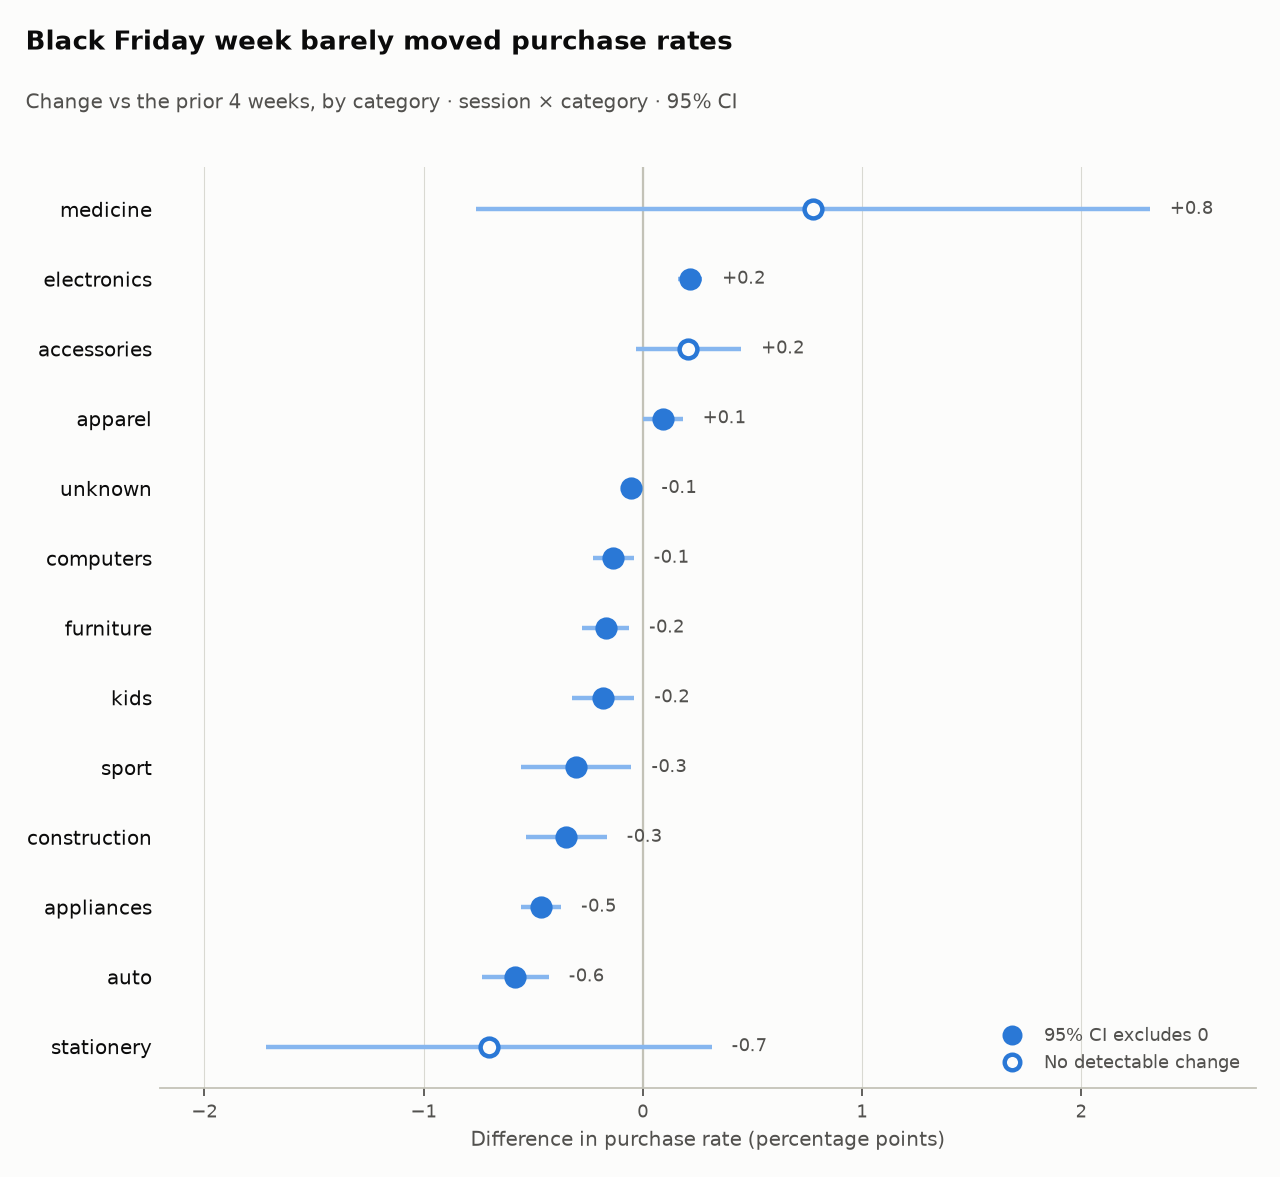
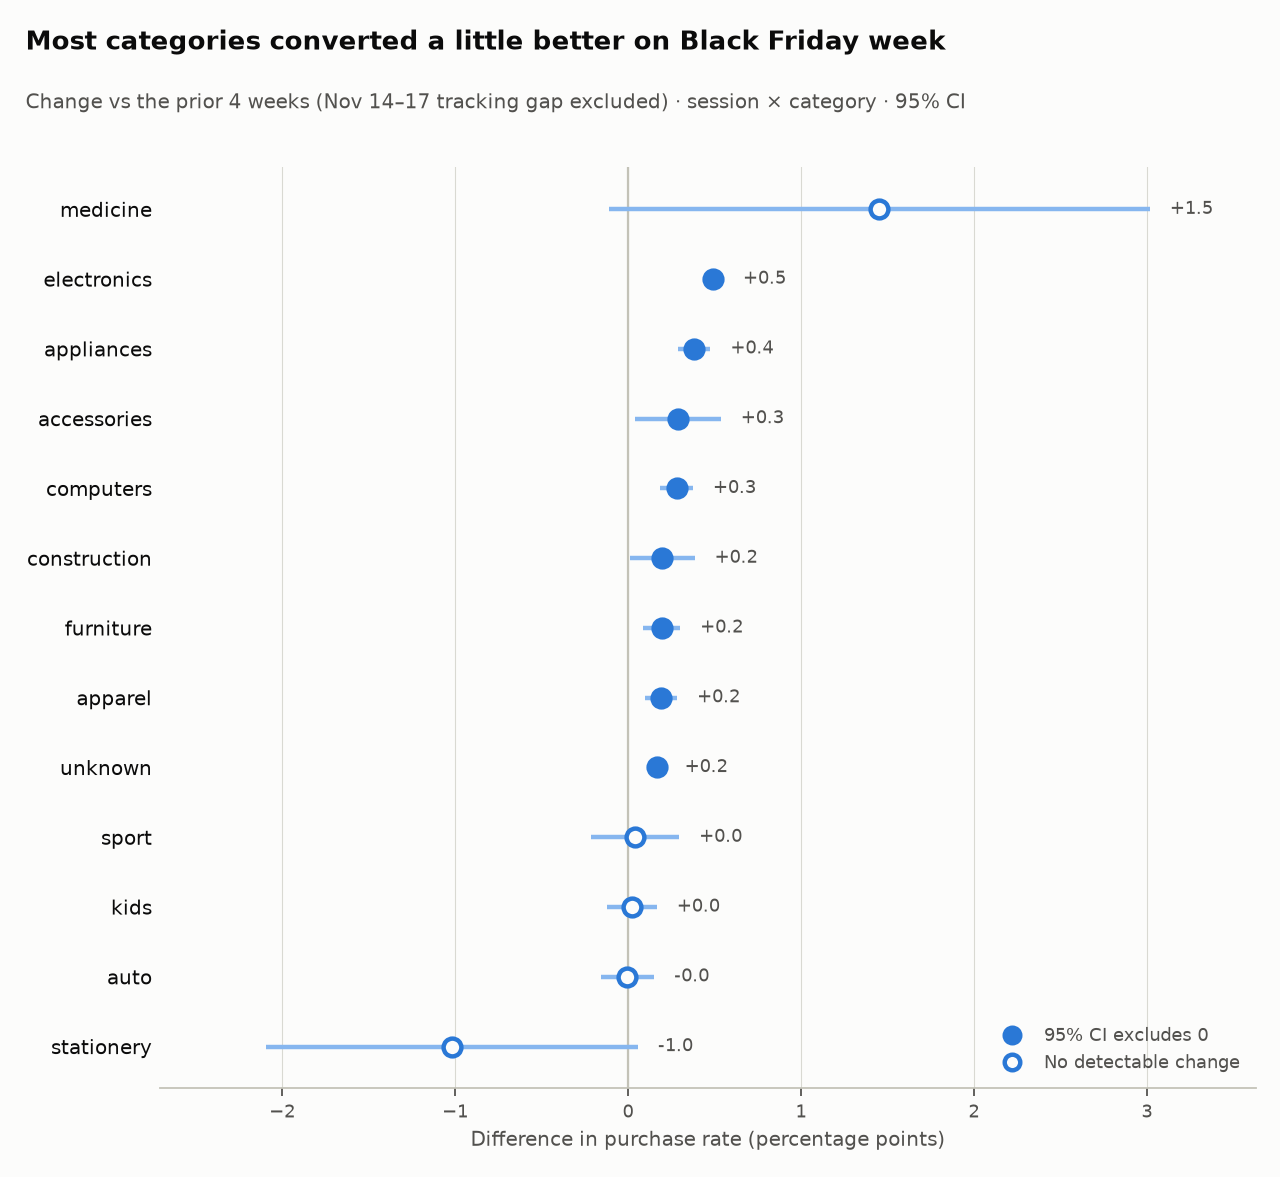
feat(analysis): re-render charts on the corrected baseline

diff --git a/analysis/make_charts.py b/analysis/make_charts.py
@@ -132,15 +132,15 @@ def diff_chart(rows, title, subtitle, xlabel, out):
 def main() -> None:
     diff_chart(
         read("q1_category_black_friday"),
-        "Black Friday week barely moved purchase rates",
-        "Change vs the prior 4 weeks, by category · session × category · 95% CI",
+        "Most categories converted a little better on Black Friday week",
+        "Change vs the prior 4 weeks (Nov 14–17 tracking gap excluded) · session × category · 95% CI",
         "Difference in purchase rate (percentage points)",
         "q1_purchase_rate_black_friday.png",
     )
     diff_chart(
         read("q2_band_contrast"),
-        "Pricier items aren't consistently abandoned more",
-        "Abandonment, top price quartile minus bottom, within each category · 95% CI",
+        "Pricier items are usually abandoned less, not more",
+        "Abandonment, top price quartile minus bottom, within each category · Nov 14–17 excluded · 95% CI",
         "Top-quartile minus bottom-quartile abandonment (percentage points)",
         "q2_abandonment_price_band.png",
     )
